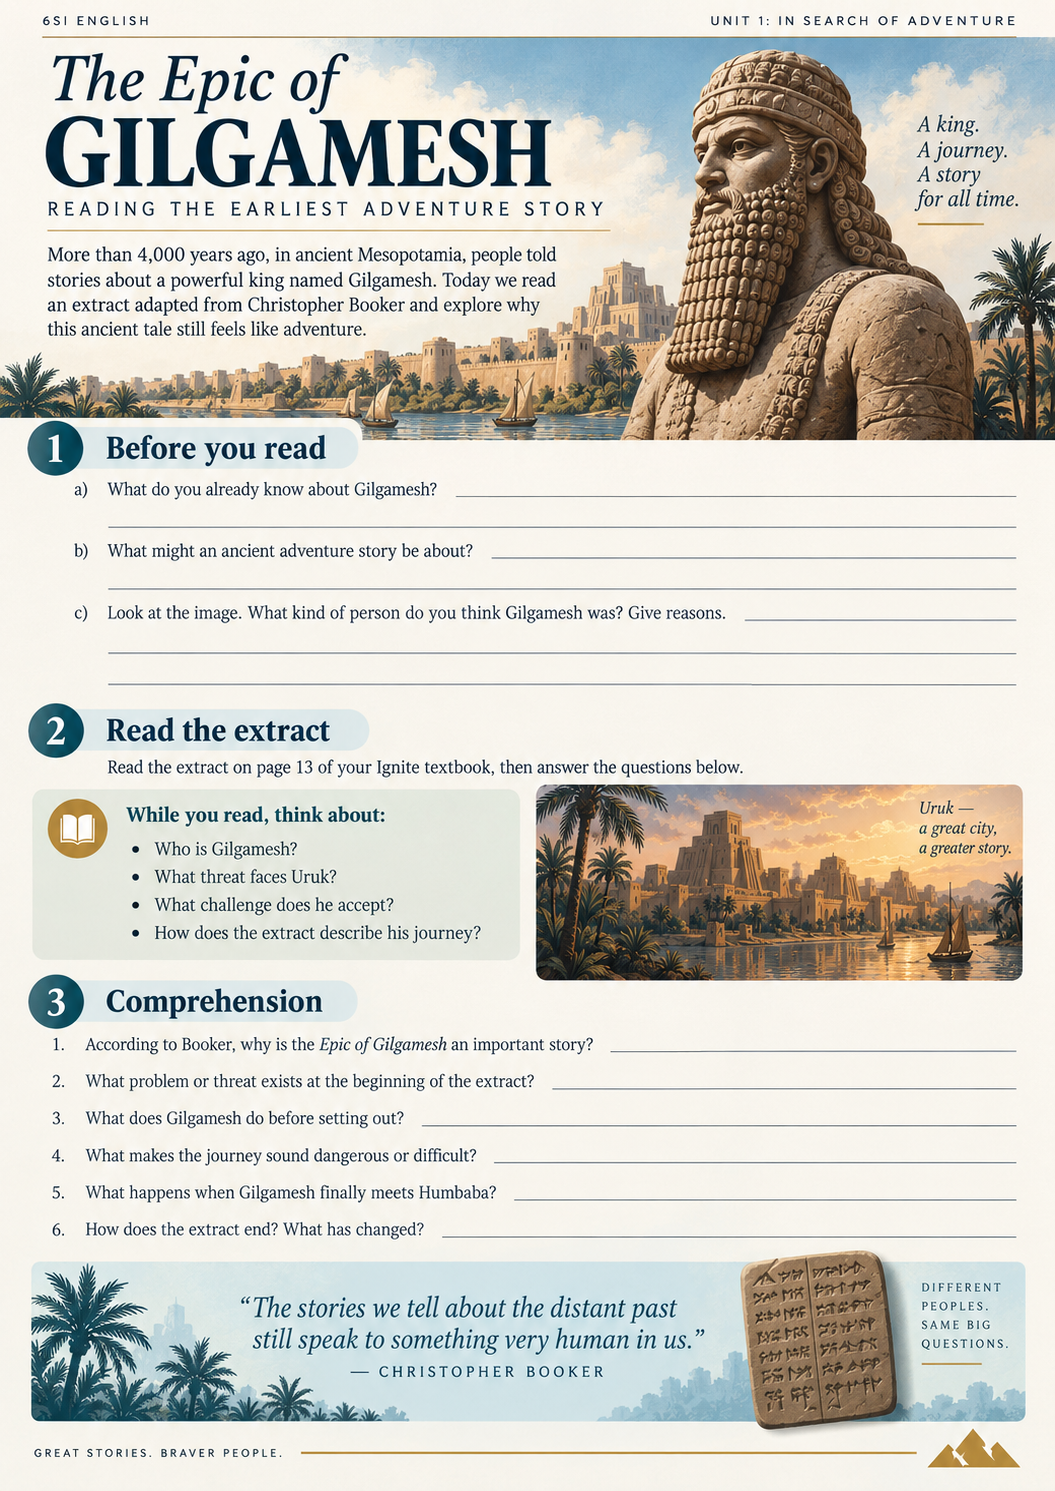
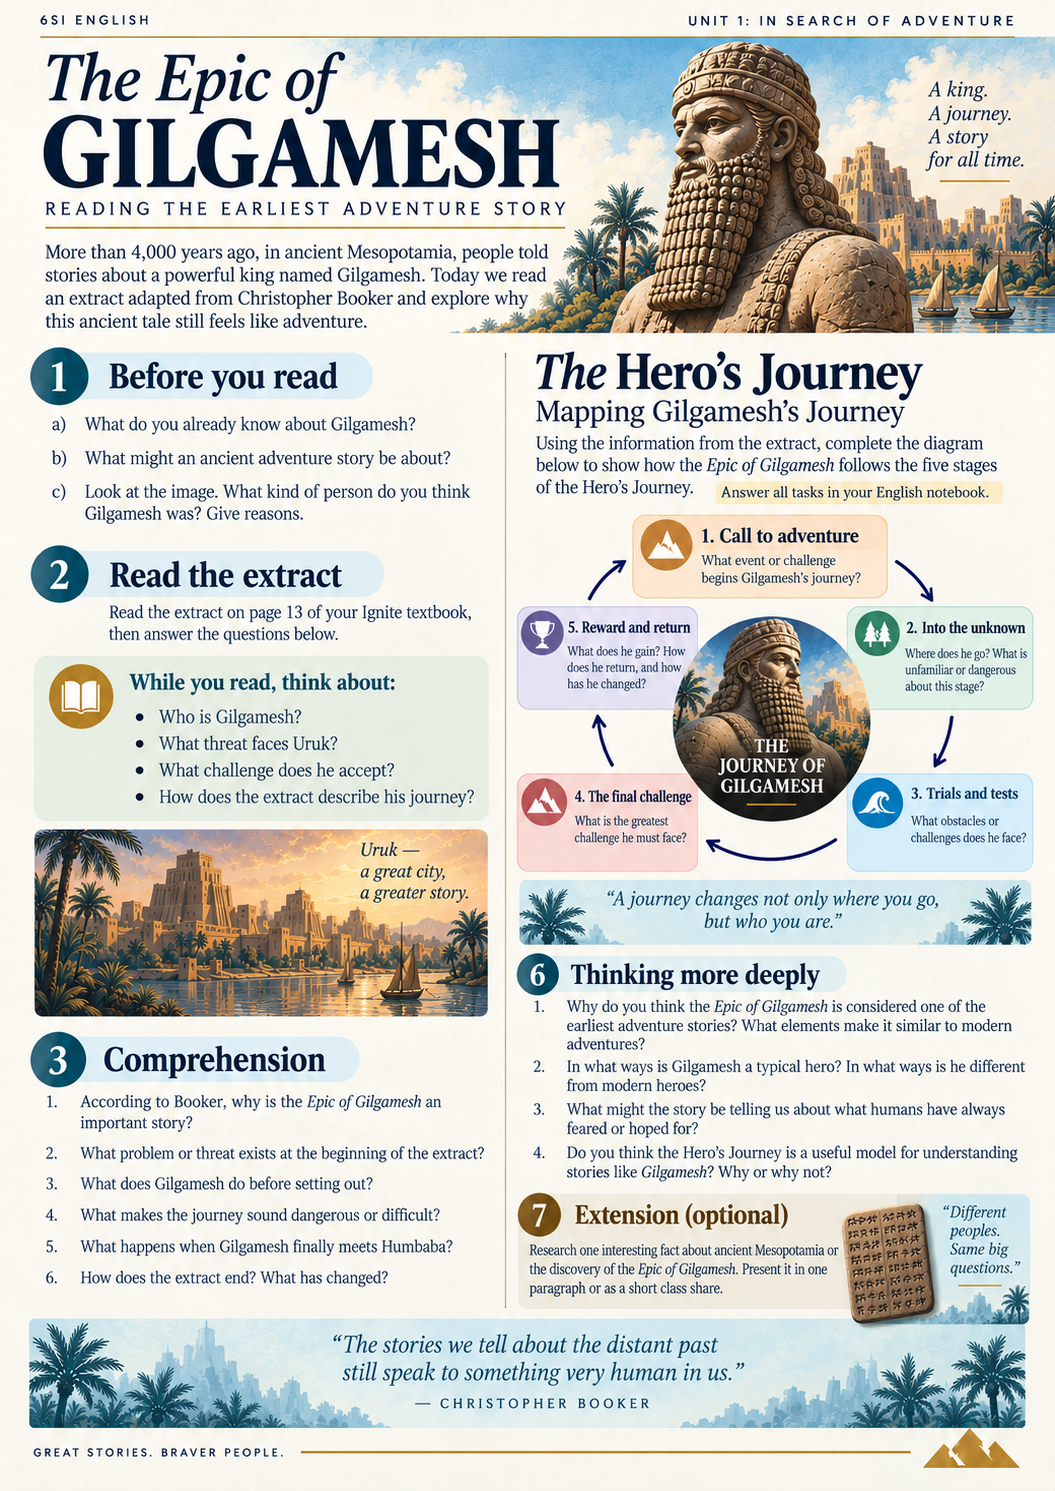
Add illustrated Week 1 worksheets

diff --git a/6si-unit-1-week-1-lesson-3.html b/6si-unit-1-week-1-lesson-3.html
@@ -1,1 +1,1 @@
-<!doctype html><html lang="en"><head><meta charset="UTF-8"><meta name="viewport" content="width=device-width, initial-scale=1.0"><meta name="description" content="6SI Unit 1 Week 1 Lesson 3 resources."><title>Lesson 3 | 6SI | The Learning Deck</title><link rel="stylesheet" href="css/unit.css"></head><body><header class="site-header"><a class="brand" href="index.html" aria-label="The Learning Deck home"><img src="assets/syl-corner-mark.png" alt=""><span>The Learning Deck</span></a><details class="class-switcher"><summary>Switch class</summary><nav class="class-switcher-menu" aria-label="Switch class"><a href="classroom.html?class=6LVA&amp;section=resources">6LVA <span>Games</span></a><a href="6si-unit-1.html">6SI <span>Unit 1</span></a><a href="5si-unit-1.html">5SI <span>Unit 1</span></a></nav></details><a class="back breadcrumb" href="6si-unit-1-week-1.html"><span>6SI · Unit 1 · Week 1</span><span aria-hidden="true">←</span></a></header><main><section class="unit-hero unit-hero-text-only"><div><p>6SI · Unit 1 · Week 1 · Lesson 3</p><h1>Lesson 3</h1><p class="intro">The Epic of Gilgamesh: an interactive activity and student worksheets.</p></div></section><section class="resources"><div class="section-heading"><div><p>Lesson folder</p><h2>Lesson 3 resources</h2></div><p>Open the activity in your browser, then use the worksheets to build and compare ideas.</p></div><div class="resource-grid"><a class="resource-card resource-iwb" href="lessons/6si/unit-1/Week%201/Lesson%203/6SI_Unit1_Week1_Lesson3_Gilgamesh_IWB_Toolkit.html" target="_blank" rel="noopener"><span class="number">01</span><span class="icon">≋</span><p class="eyebrow">Interactive activity</p><h3>Epic of Gilgamesh</h3><p>Work through the Lesson 3 activity in your browser.</p><span class="action">Open activity <span class="fullscreen-indicator" title="Opens in a new tab" aria-hidden="true">⛶</span><b>→</b></span></a><a class="resource-card resource-worksheet" href="lessons/6si/unit-1/Week%201/Lesson%203/6SI_Unit1_Lesson3_Worksheet_1_Gilgamesh_Reading_Evidence.png" target="_blank" rel="noopener"><span class="number">02</span><span class="icon">◌</span><p class="eyebrow">Worksheet</p><h3>Reading Evidence</h3><p>Open the first Lesson 3 worksheet.</p><span class="action">Open worksheet <b>→</b></span></a><a class="resource-card resource-worksheet" href="lessons/6si/unit-1/Week%201/Lesson%203/6SI_Unit1_Lesson3_Worksheet_2_Heros_Journey_Map.png" target="_blank" rel="noopener"><span class="number">03</span><span class="icon">◌</span><p class="eyebrow">Worksheet</p><h3>Hero's Journey Map</h3><p>Open the second Lesson 3 worksheet.</p><span class="action">Open worksheet <b>→</b></span></a><a class="resource-card resource-worksheet" href="lessons/6si/unit-1/Week%201/Lesson%203/6SI_Unit1_Lesson3_Worksheet_3_Comparison_and_Discussion.png" target="_blank" rel="noopener"><span class="number">04</span><span class="icon">◌</span><p class="eyebrow">Worksheet</p><h3>Comparison and Discussion</h3><p>Open the third Lesson 3 worksheet.</p><span class="action">Open worksheet <b>→</b></span></a></div></section></main><nav class="footer-class-switcher" aria-label="Switch class"><span>Switch class</span><a href="classroom.html?class=6LVA&amp;section=resources">6LVA</a><a href="6si-unit-1.html">6SI</a><a href="5si-unit-1.html">5SI</a></nav></body></html>
+<!doctype html><html lang="en"><head><meta charset="UTF-8"><meta name="viewport" content="width=device-width, initial-scale=1.0"><meta name="description" content="6SI Unit 1 Week 1 Lesson 3 resources."><title>Lesson 3 | 6SI | The Learning Deck</title><link rel="stylesheet" href="css/unit.css"></head><body><header class="site-header"><a class="brand" href="index.html" aria-label="The Learning Deck home"><img src="assets/syl-corner-mark.png" alt=""><span>The Learning Deck</span></a><details class="class-switcher"><summary>Switch class</summary><nav class="class-switcher-menu" aria-label="Switch class"><a href="classroom.html?class=6LVA&amp;section=resources">6LVA <span>Games</span></a><a href="6si-unit-1.html">6SI <span>Unit 1</span></a><a href="5si-unit-1.html">5SI <span>Unit 1</span></a></nav></details><a class="back breadcrumb" href="6si-unit-1-week-1.html"><span>6SI · Unit 1 · Week 1</span><span aria-hidden="true">←</span></a></header><main><section class="unit-hero unit-hero-text-only"><div><p>6SI · Unit 1 · Week 1 · Lesson 3</p><h1>Lesson 3</h1><p class="intro">The Epic of Gilgamesh: an interactive activity and student worksheets.</p></div></section><section class="resources"><div class="section-heading"><div><p>Lesson folder</p><h2>Lesson 3 resources</h2></div><p>Open the activity in your browser, then use the worksheets to build and compare ideas.</p></div><div class="resource-grid"><a class="resource-card resource-iwb" href="lessons/6si/unit-1/Week%201/Lesson%203/6SI_Unit1_Week1_Lesson3_Gilgamesh_IWB_Toolkit.html" target="_blank" rel="noopener"><span class="number">01</span><span class="icon">≋</span><p class="eyebrow">Interactive activity</p><h3>Epic of Gilgamesh</h3><p>Work through the Lesson 3 activity in your browser.</p><span class="action">Open activity <span class="fullscreen-indicator" title="Opens in a new tab" aria-hidden="true">⛶</span><b>→</b></span></a><a class="resource-card resource-worksheet" href="lessons/6si/unit-1/Week%201/Lesson%203/6SI_Unit1_Lesson3_Worksheet_1_Gilgamesh_Reading_Evidence.png" target="_blank" rel="noopener"><span class="number">02</span><span class="icon">◌</span><p class="eyebrow">Worksheet</p><h3>The Epic of Gilgamesh</h3><p>Read the extract, map Gilgamesh's journey and answer comprehension questions.</p><span class="action">Open worksheet <b>→</b></span></a><a class="resource-card resource-worksheet" href="lessons/6si/unit-1/Week%201/Lesson%203/6SI_Unit1_Lesson3_Worksheet_2_Heros_Journey_Map.png" target="_blank" rel="noopener"><span class="number">03</span><span class="icon">◌</span><p class="eyebrow">Worksheet</p><h3>Hero's Journey Map</h3><p>Open the second Lesson 3 worksheet.</p><span class="action">Open worksheet <b>→</b></span></a><a class="resource-card resource-worksheet" href="lessons/6si/unit-1/Week%201/Lesson%203/6SI_Unit1_Lesson3_Worksheet_3_Comparison_and_Discussion.png" target="_blank" rel="noopener"><span class="number">04</span><span class="icon">◌</span><p class="eyebrow">Worksheet</p><h3>Comparison and Discussion</h3><p>Open the third Lesson 3 worksheet.</p><span class="action">Open worksheet <b>→</b></span></a></div></section></main><nav class="footer-class-switcher" aria-label="Switch class"><span>Switch class</span><a href="classroom.html?class=6LVA&amp;section=resources">6LVA</a><a href="6si-unit-1.html">6SI</a><a href="5si-unit-1.html">5SI</a></nav></body></html>

diff --git a/6si-unit-1-week-1-lesson-4.html b/6si-unit-1-week-1-lesson-4.html
@@ -1,1 +1,1 @@
-<!doctype html><html lang="en"><head><meta charset="UTF-8"><meta name="viewport" content="width=device-width, initial-scale=1.0"><meta name="description" content="6SI Unit 1 Week 1 Lesson 4 resources."><title>Lesson 4 | 6SI | The Learning Deck</title><link rel="stylesheet" href="css/unit.css"></head><body><header class="site-header"><a class="brand" href="index.html" aria-label="The Learning Deck home"><img src="assets/syl-corner-mark.png" alt=""><span>The Learning Deck</span></a><details class="class-switcher"><summary>Switch class</summary><nav class="class-switcher-menu" aria-label="Switch class"><a href="classroom.html?class=6LVA&amp;section=resources">6LVA <span>Games</span></a><a href="6si-unit-1.html">6SI <span>Unit 1</span></a><a href="5si-unit-1.html">5SI <span>Unit 1</span></a></nav></details><a class="back breadcrumb" href="6si-unit-1-week-1.html"><span>6SI · Unit 1 · Week 1</span><span aria-hidden="true">←</span></a></header><main><section class="unit-hero unit-hero-text-only"><div><p>6SI · Unit 1 · Week 1 · Lesson 4</p><h1>Lesson 4</h1><p class="intro">Adventure writing and conjunctions: interactive practice and student worksheets.</p></div></section><section class="resources"><div class="section-heading"><div><p>Lesson folder</p><h2>Lesson 4 resources</h2></div><p>Use the activity and worksheets to compare adventure stories and improve your writing.</p></div><div class="resource-grid"><a class="resource-card resource-iwb" href="lessons/6si/unit-1/Week%201/Lesson%204/6SI_Unit1_Week1_Lesson4_Conjunctions_IWB_Toolkit.html" target="_blank" rel="noopener"><span class="number">01</span><span class="icon">≋</span><p class="eyebrow">Interactive activity</p><h3>Conjunctions</h3><p>Work through the Lesson 4 activity in your browser.</p><span class="action">Open activity <span class="fullscreen-indicator" title="Opens in a new tab" aria-hidden="true">⛶</span><b>→</b></span></a><a class="resource-card resource-worksheet" href="lessons/6si/unit-1/Week%201/Lesson%204/adventure_writing_conjunctions_worksheet.png" target="_blank" rel="noopener"><span class="number">02</span><span class="icon">◌</span><p class="eyebrow">Worksheet</p><h3>Adventure Writing</h3><p>Practise conjunctions in adventure writing.</p><span class="action">Open worksheet <b>→</b></span></a><a class="resource-card resource-worksheet" href="lessons/6si/unit-1/Week%201/Lesson%204/comparing_adventure_stories_worksheet.png" target="_blank" rel="noopener"><span class="number">03</span><span class="icon">◌</span><p class="eyebrow">Worksheet</p><h3>Comparing Stories</h3><p>Compare adventure stories using evidence.</p><span class="action">Open worksheet <b>→</b></span></a><a class="resource-card resource-worksheet" href="lessons/6si/unit-1/Week%201/Lesson%204/comparison_paragraph_adventure_worksheet.png" target="_blank" rel="noopener"><span class="number">04</span><span class="icon">◌</span><p class="eyebrow">Worksheet</p><h3>Comparison Paragraph</h3><p>Plan and write an adventure comparison paragraph.</p><span class="action">Open worksheet <b>→</b></span></a></div></section></main><nav class="footer-class-switcher" aria-label="Switch class"><span>Switch class</span><a href="classroom.html?class=6LVA&amp;section=resources">6LVA</a><a href="6si-unit-1.html">6SI</a><a href="5si-unit-1.html">5SI</a></nav></body></html>
+<!doctype html><html lang="en"><head><meta charset="UTF-8"><meta name="viewport" content="width=device-width, initial-scale=1.0"><meta name="description" content="6SI Unit 1 Week 1 Lesson 4 resources."><title>Lesson 4 | 6SI | The Learning Deck</title><link rel="stylesheet" href="css/unit.css"></head><body><header class="site-header"><a class="brand" href="index.html" aria-label="The Learning Deck home"><img src="assets/syl-corner-mark.png" alt=""><span>The Learning Deck</span></a><details class="class-switcher"><summary>Switch class</summary><nav class="class-switcher-menu" aria-label="Switch class"><a href="classroom.html?class=6LVA&amp;section=resources">6LVA <span>Games</span></a><a href="6si-unit-1.html">6SI <span>Unit 1</span></a><a href="5si-unit-1.html">5SI <span>Unit 1</span></a></nav></details><a class="back breadcrumb" href="6si-unit-1-week-1.html"><span>6SI · Unit 1 · Week 1</span><span aria-hidden="true">←</span></a></header><main><section class="unit-hero unit-hero-text-only"><div><p>6SI · Unit 1 · Week 1 · Lesson 4</p><h1>Lesson 4</h1><p class="intro">Adventure writing and conjunctions: interactive practice and student worksheets.</p></div></section><section class="resources"><div class="section-heading"><div><p>Lesson folder</p><h2>Lesson 4 resources</h2></div><p>Use the activity and worksheets to compare adventure stories and improve your writing.</p></div><div class="resource-grid"><a class="resource-card resource-iwb" href="lessons/6si/unit-1/Week%201/Lesson%204/6SI_Unit1_Week1_Lesson4_Conjunctions_IWB_Toolkit.html" target="_blank" rel="noopener"><span class="number">01</span><span class="icon">≋</span><p class="eyebrow">Interactive activity</p><h3>Conjunctions</h3><p>Work through the Lesson 4 activity in your browser.</p><span class="action">Open activity <span class="fullscreen-indicator" title="Opens in a new tab" aria-hidden="true">⛶</span><b>→</b></span></a><a class="resource-card resource-worksheet" href="lessons/6si/unit-1/Week%201/Lesson%204/adventure_writing_conjunctions_worksheet.png" target="_blank" rel="noopener"><span class="number">02</span><span class="icon">◌</span><p class="eyebrow">Worksheet</p><h3>Conjunctions in Adventure Writing</h3><p>Practise coordinating and subordinating conjunctions in adventure writing.</p><span class="action">Open worksheet <b>→</b></span></a><a class="resource-card resource-worksheet" href="lessons/6si/unit-1/Week%201/Lesson%204/comparing_adventure_stories_worksheet.png" target="_blank" rel="noopener"><span class="number">03</span><span class="icon">◌</span><p class="eyebrow">Worksheet</p><h3>Comparing Stories</h3><p>Compare adventure stories using evidence.</p><span class="action">Open worksheet <b>→</b></span></a><a class="resource-card resource-worksheet" href="lessons/6si/unit-1/Week%201/Lesson%204/comparison_paragraph_adventure_worksheet.png" target="_blank" rel="noopener"><span class="number">04</span><span class="icon">◌</span><p class="eyebrow">Worksheet</p><h3>Comparison Paragraph</h3><p>Plan and write an adventure comparison paragraph.</p><span class="action">Open worksheet <b>→</b></span></a></div></section></main><nav class="footer-class-switcher" aria-label="Switch class"><span>Switch class</span><a href="classroom.html?class=6LVA&amp;section=resources">6LVA</a><a href="6si-unit-1.html">6SI</a><a href="5si-unit-1.html">5SI</a></nav></body></html>
